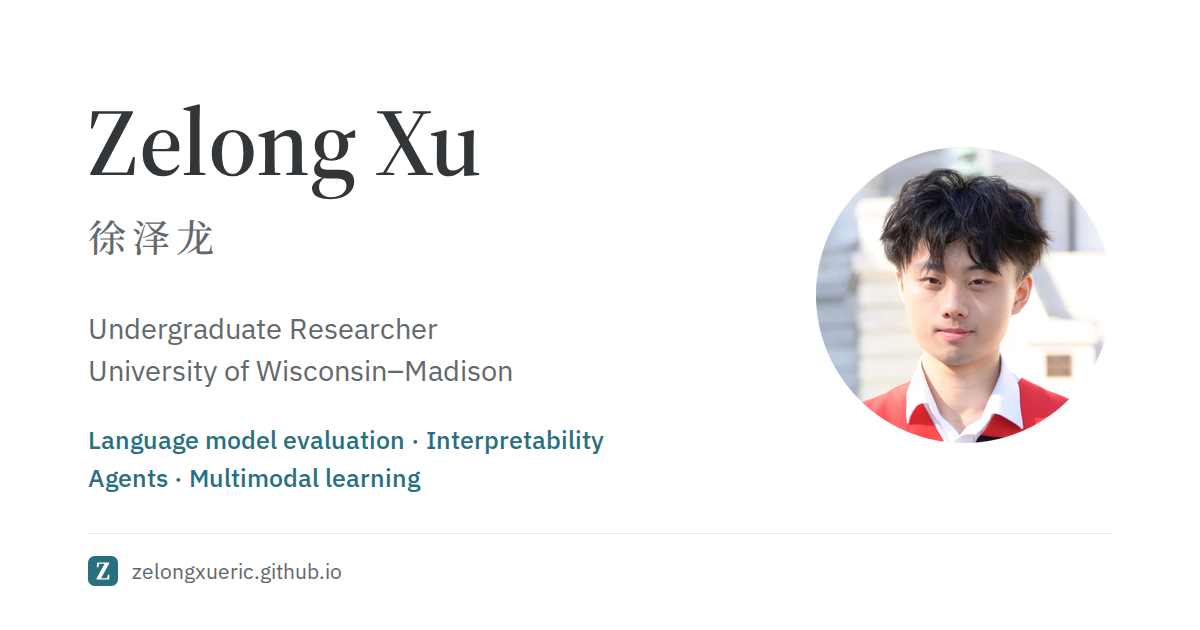
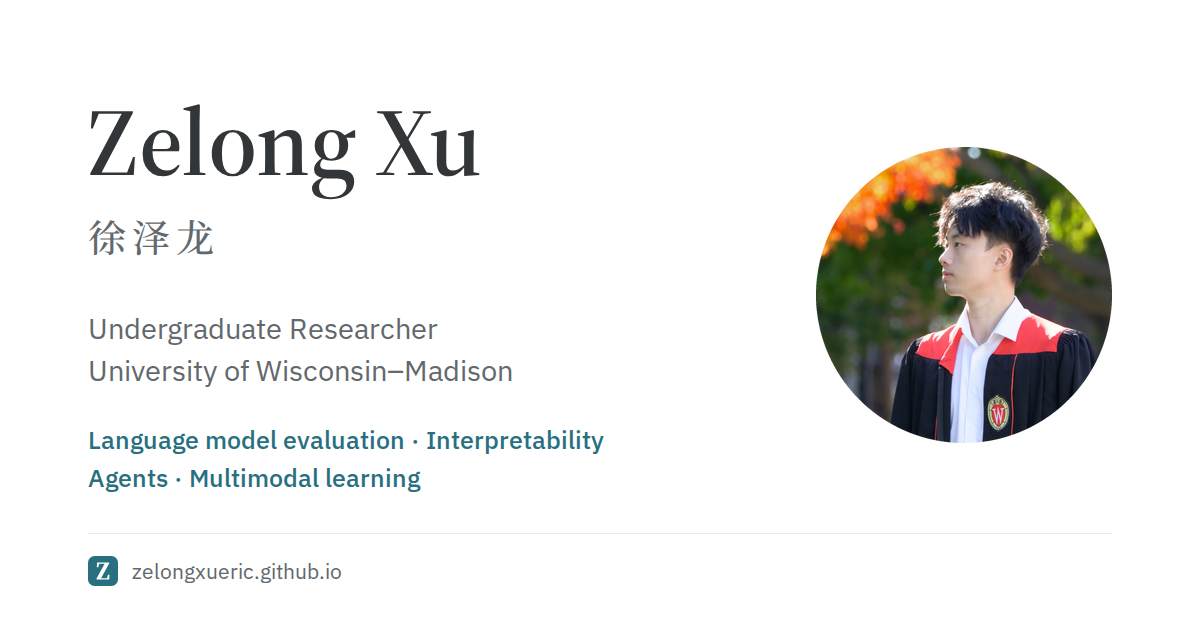
Use a new portrait photo
Replace the profile photo and the portrait in the social preview image with
a crop from a new photo.

Changed region(s): [[0.6783, 0.2111, 0.925, 0.7238]]

diff --git a/README.md b/README.md
@@ -20,7 +20,7 @@ npm run preview
 | --- | --- |
 | `src/content/profile.yaml` | Identity, city, affiliation, application status, profile links |
 | `src/content/about.md` | Two short introductory paragraphs |
-| `src/content/portrait.jpg` | Square portrait crop (face centered), optimized at build time and shown as a circle |
+| `src/content/portrait.jpg` | Square portrait crop, optimized at build time and shown as a circle |
 | `src/content/publications/*.md` | One research item per file |
 | `src/content/publications/figures/` | One figure per paper, optimized at build time |
 | `public/files/` | Publicly downloadable CV and other files |
